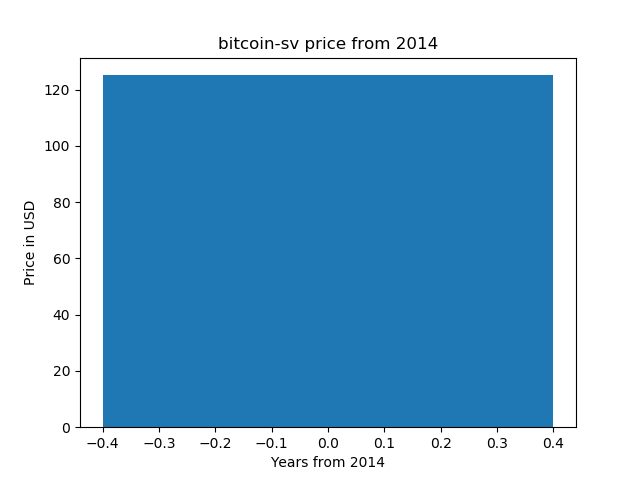
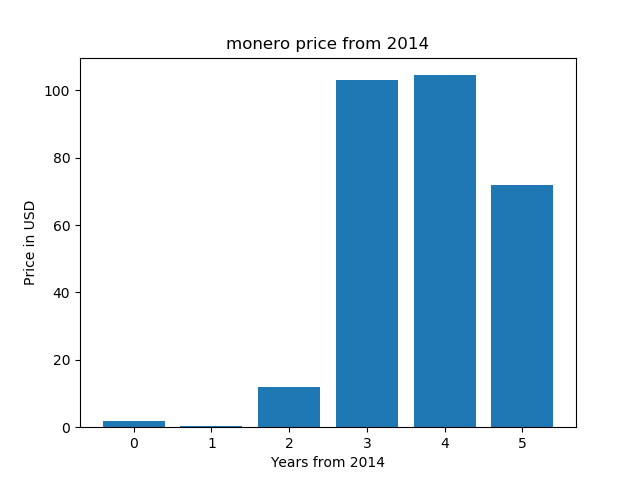
first commit

diff --git a/example.py b/example.py
@@ -10,7 +10,7 @@ from time import gmtime, strftime
 import matplotlib.pyplot as plt
 
 enddate = strftime("%Y%m%d", gmtime())
-r  = requests.get("https://coinmarketcap.com/currencies/bitcoin-sv/historical-data/?start=20140101&end={0}".format(enddate))
+r  = requests.get("https://coinmarketcap.com/currencies/monero/historical-data/?start=20140101&end={0}".format(enddate))
 data = r.text
 
 soup = BeautifulSoup(data, "html.parser")
@@ -44,7 +44,7 @@ print(x)
 
 x = list(range(0, len(prices)))
 
-plt.title('bitcoin-sv price from 2014')
+plt.title('monero price from 2014')
 plt.ylabel('Price in USD')
 plt.xlabel('Years from 2014')
 plt.bar(x, prices)

diff --git a/README.md b/README.md
@@ -1,6 +1,6 @@
-# bitcoin-sv price chart 
+# monero price chart 
 
-bitcoin-sv price chart (matplotlib, python)
+monero price chart (matplotlib, python)
 
 https://pythonprogramminglanguage.com
 
